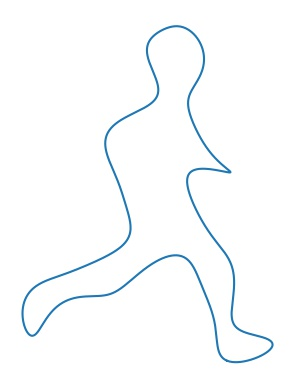
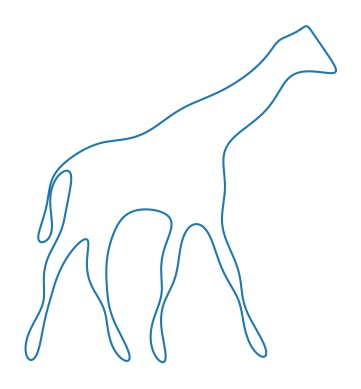
better get contour

diff --git a/path.py b/path.py
@@ -1,27 +1,53 @@
 import cv2
+import numpy as np
 
 def getContour(imgName):
     img = cv2.imread(imgName)
-    imgFlip = cv2.flip(img, 0)
-    imgBinary = cv2.cvtColor(imgFlip, cv2.COLOR_BGR2GRAY)
-    thresh = 100
+    gray = cv2.cvtColor(img, cv2.COLOR_RGB2GRAY)
+    thresh = cv2.threshold(gray, 150, 255, cv2.THRESH_BINARY_INV)[1]
+    contours = cv2.findContours(thresh, cv2.RETR_EXTERNAL, cv2.CHAIN_APPROX_NONE)[0]
 
-    ret, threshImg = cv2.threshold(imgBinary, thresh, 255, cv2.THRESH_BINARY_INV)
-    contours, hierarchy = cv2.findContours(threshImg, cv2.RETR_EXTERNAL, cv2.CHAIN_APPROX_NONE)
+    img = np.zeros(img.shape)
+    cv2.drawContours(img, contours, -1, (0, 255, 0), 1)
+    cv2.imwrite('contours.jpg', img)
 
-    return contours[0].squeeze()
-
-def convertComplex(contour):
-    compPoints = []
-    for point in contour:
-        compPoints.append(complex(point[0], point[1]))
-    return compPoints
+    return max(contours, key = cv2.contourArea).squeeze()
 
 def getPath(imgName):
     contour = getContour(imgName)
-    return convertComplex(contour)
+    return [complex(x[0], x[1]) for x in contour]
 
 
-# img_contours = np.zeros(img.shape)
-# cv2.drawContours(img_contours, contours, -1, (0,255,0), 1)
-# cv2.imwrite('new_img.png',img_contours)
+def oldGetContour(imgName):
+    img = cv2.imread(imgName)
+    scale = 1000 / max(img.shape)
+    newHeight = int(img.shape[0] * scale)
+    newWidth = int(img.shape[1] * scale)
+    imgScaled = cv2.resize(img, (newWidth, newHeight))
+    imgBinary = cv2.cvtColor(imgScaled, cv2.COLOR_BGR2GRAY)
+
+    imgBilat = cv2.bilateralFilter(imgBinary, 10, 10, 10)
+    imgEdged = cv2.Canny(imgBilat, 100, 200)
+    cv2.imwrite('edges.jpg', imgEdged)
+
+    thresh = 75
+    imgFlip = cv2.flip(imgBinary, 0)
+    ret, threshImg = cv2.threshold(imgFlip, thresh, 255, cv2.THRESH_BINARY_INV)
+    contours, hierarchy = cv2.findContours(threshImg, cv2.RETR_EXTERNAL, cv2.CHAIN_APPROX_NONE)
+
+    imgZeros = np.zeros(imgScaled.shape)
+    cv2.drawContours(imgZeros, contours, -1, (0, 255, 0), 1)
+    imgFlip = cv2.flip(imgZeros, 0)
+    cv2.imwrite('contours.jpg', imgFlip)
+
+    return max(contours, key = len).squeeze()
+
+    # scaled = imutils.resize(img, 1000)
+    # blur = cv2.blur(gray, (5, 5), 0)
+    # canny = cv2.Canny(blur, 0, 255)
+
+    # thresh = cv2.erode(thresh, None, iterations = 2)
+    # thresh = cv2.dilate(thresh, None, iterations = 2)
+    
+    # cv2.imwrite('canny.jpg', canny)
+    

diff --git a/fourier.py b/fourier.py
@@ -32,4 +32,4 @@ def getApprox(N, path, c):
 def transform(N, path):
     c = getCn(N, path)
     approx = getApprox(N, path, c)
-    return approx.real, approx.imag
+    return approx.real, approx.imag*-1

diff --git a/main.py b/main.py
@@ -5,7 +5,7 @@ import matplotlib.pyplot as plt
 from fourier import transform
 from path import getPath
 
-path = getPath('photos/run.jpg')
+path = getPath('photos/giraffe.jpg')
 
 
 while True:
